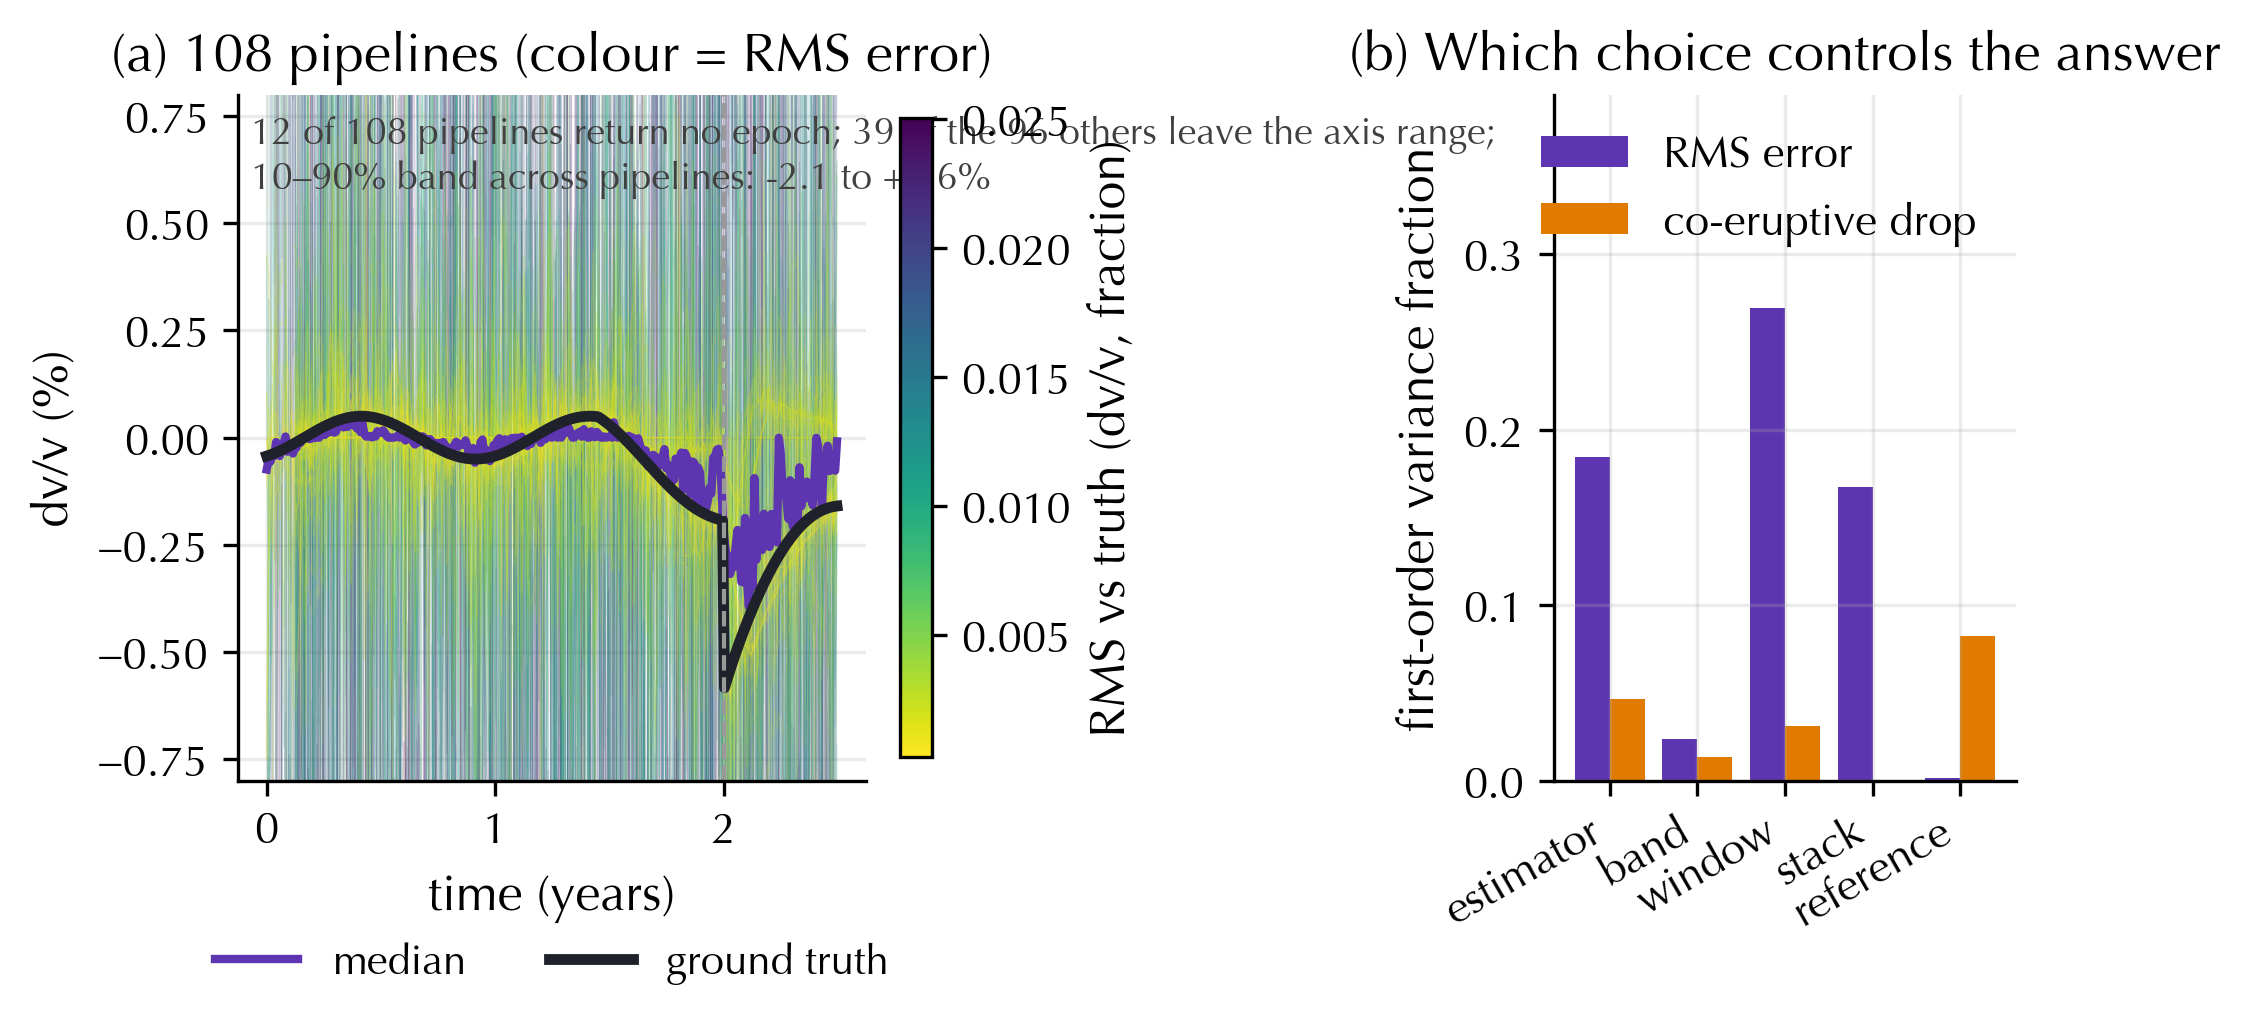
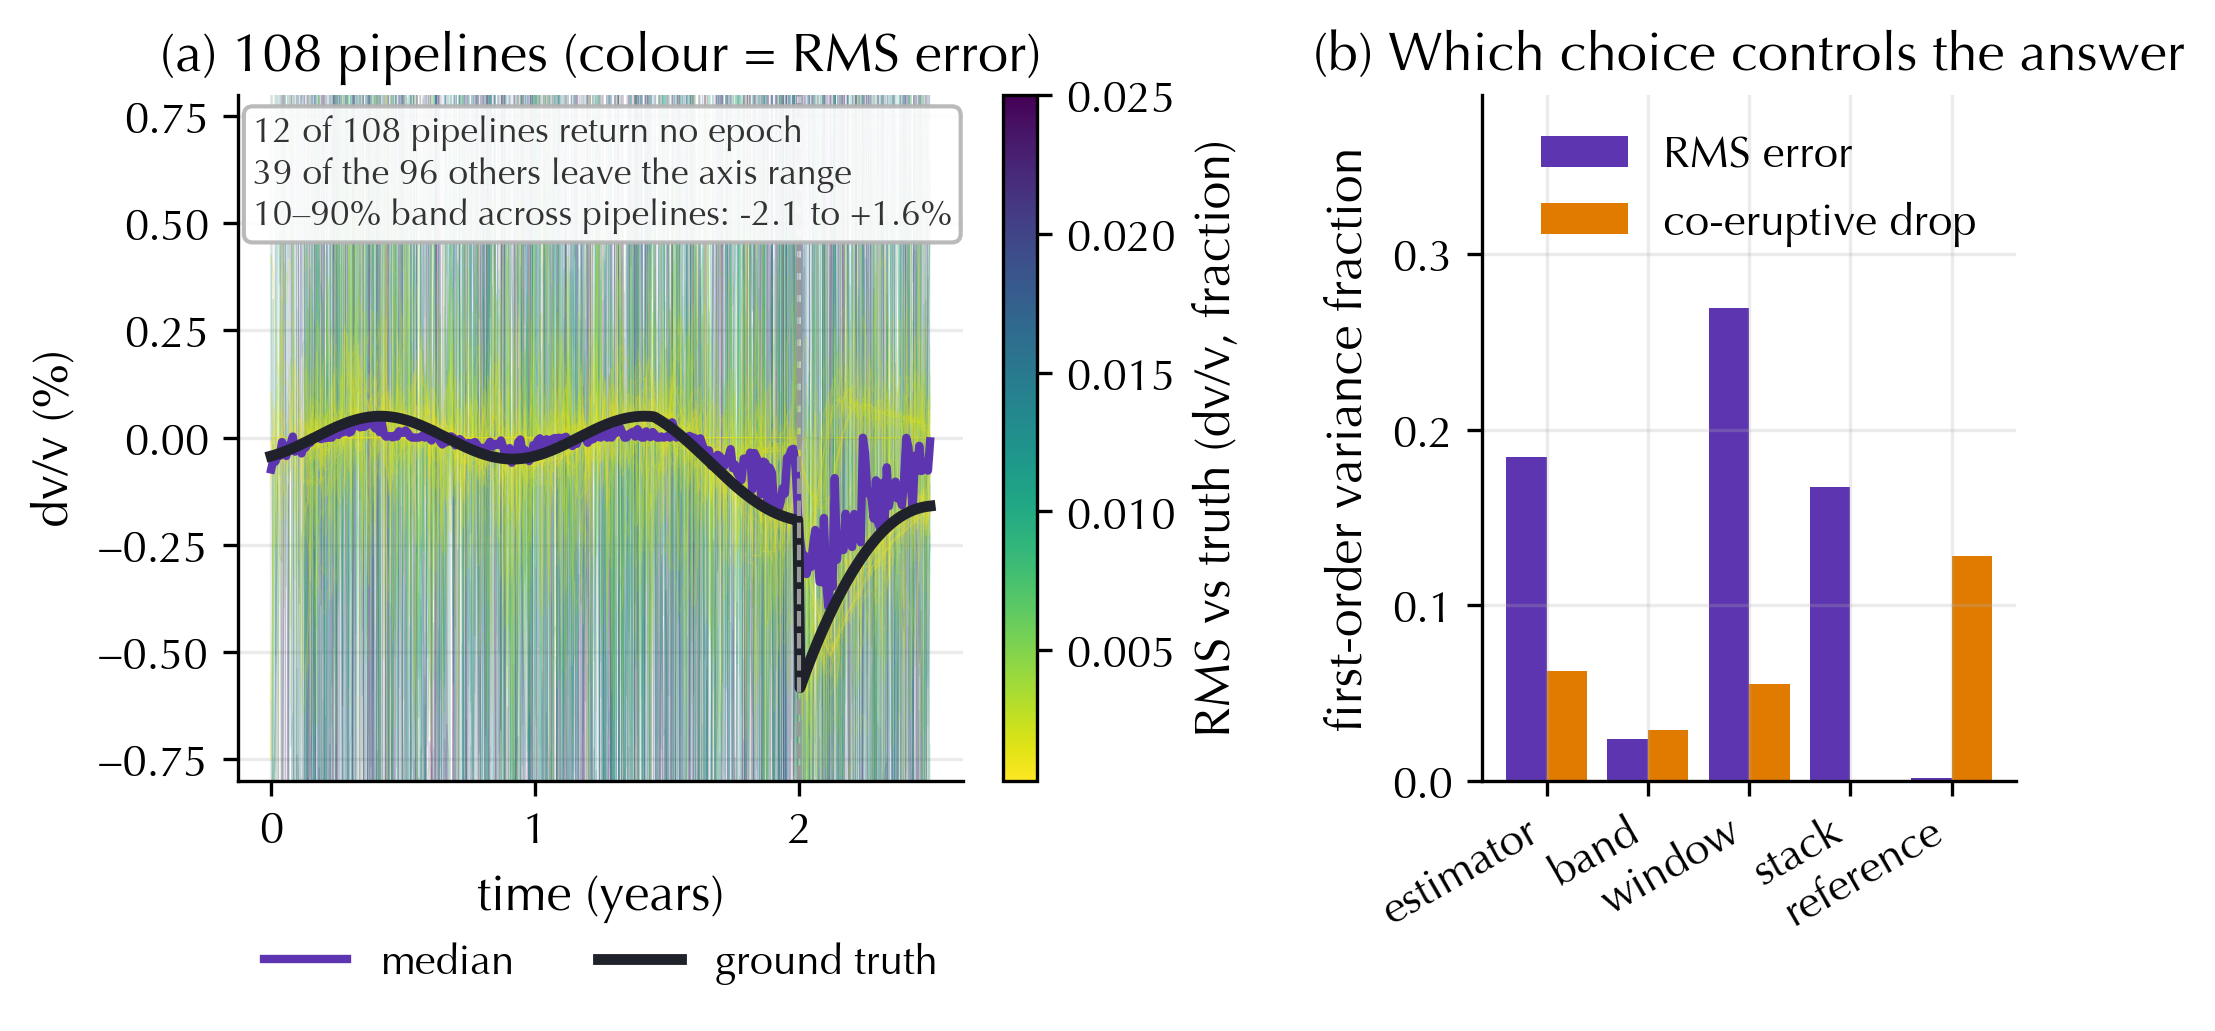
Regenerate Fig 13 with the event-day step and the boxed annotation (#39)

diff --git a/paper/manuscript_marine.tex b/paper/manuscript_marine.tex
@@ -1368,12 +1368,12 @@ Attributing the variance of the outcome to each axis with a first-order
 for this dataset, the \textbf{coda window} controls the RMS error most
 (index \(0.27\)), with the estimator (\(0.19\)) and the stack length
 (\(0.17\)) next and the band and the reference scheme below \(0.03\).
-For the recovered step, the reference scheme leads (\(0.08\)) with the
-estimator (\(0.05\)) and the window (\(0.03\)) next; the stack length
+For the recovered step, the reference scheme leads (\(0.13\)) with the
+estimator (\(0.06\)) and the window (\(0.06\)) next; the stack length
 has no first-order effect on the step as measured by post- and pre-event
 medians, which the smearing of a stack shorter than the 120-day windows
 barely moves. The first-order indices sum to \(0.65\) for the RMS and to
-\(0.17\) for the step, so a large part of the spread, and most of it for
+\(0.28\) for the step, so a large part of the spread, and most of it for
 the step, is \emph{interaction} between choices compounding. The
 appropriate object is therefore not a single curve but a distribution of
 \dvv~over the processing choices.
